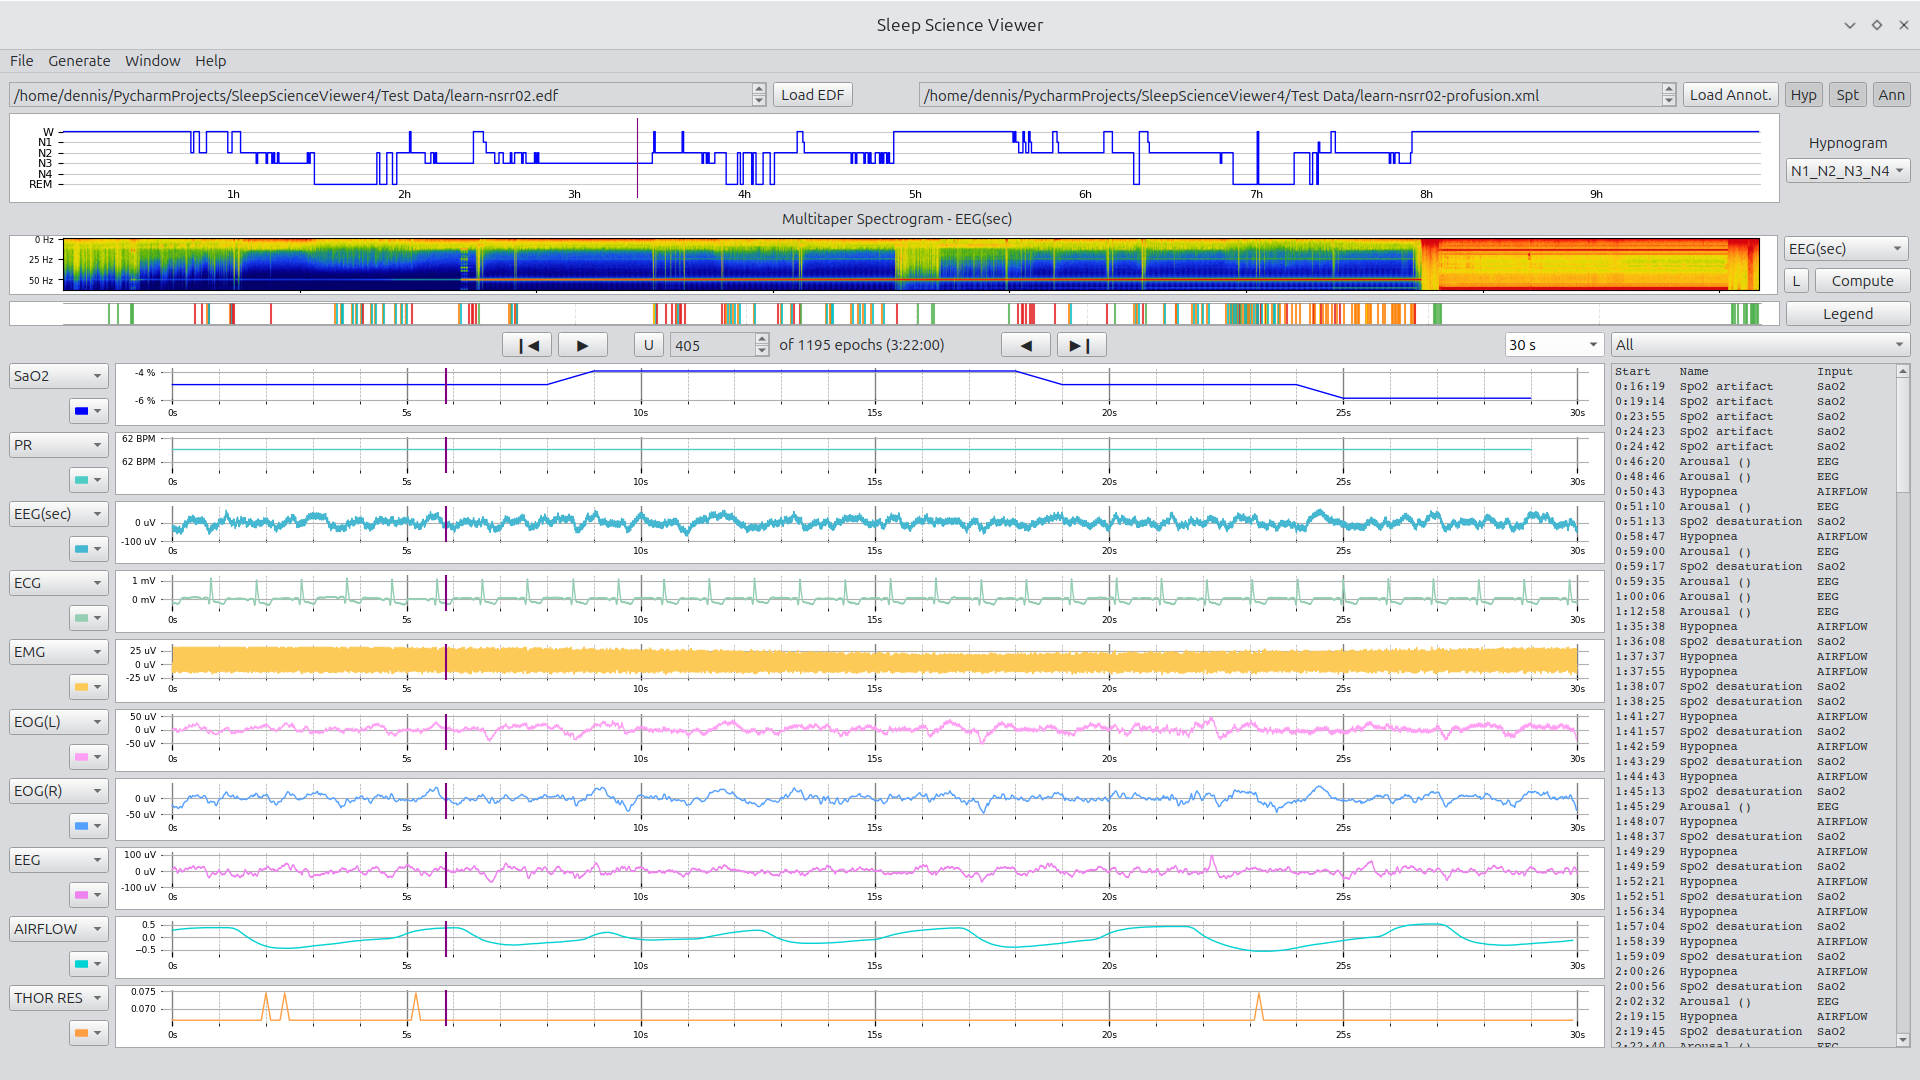
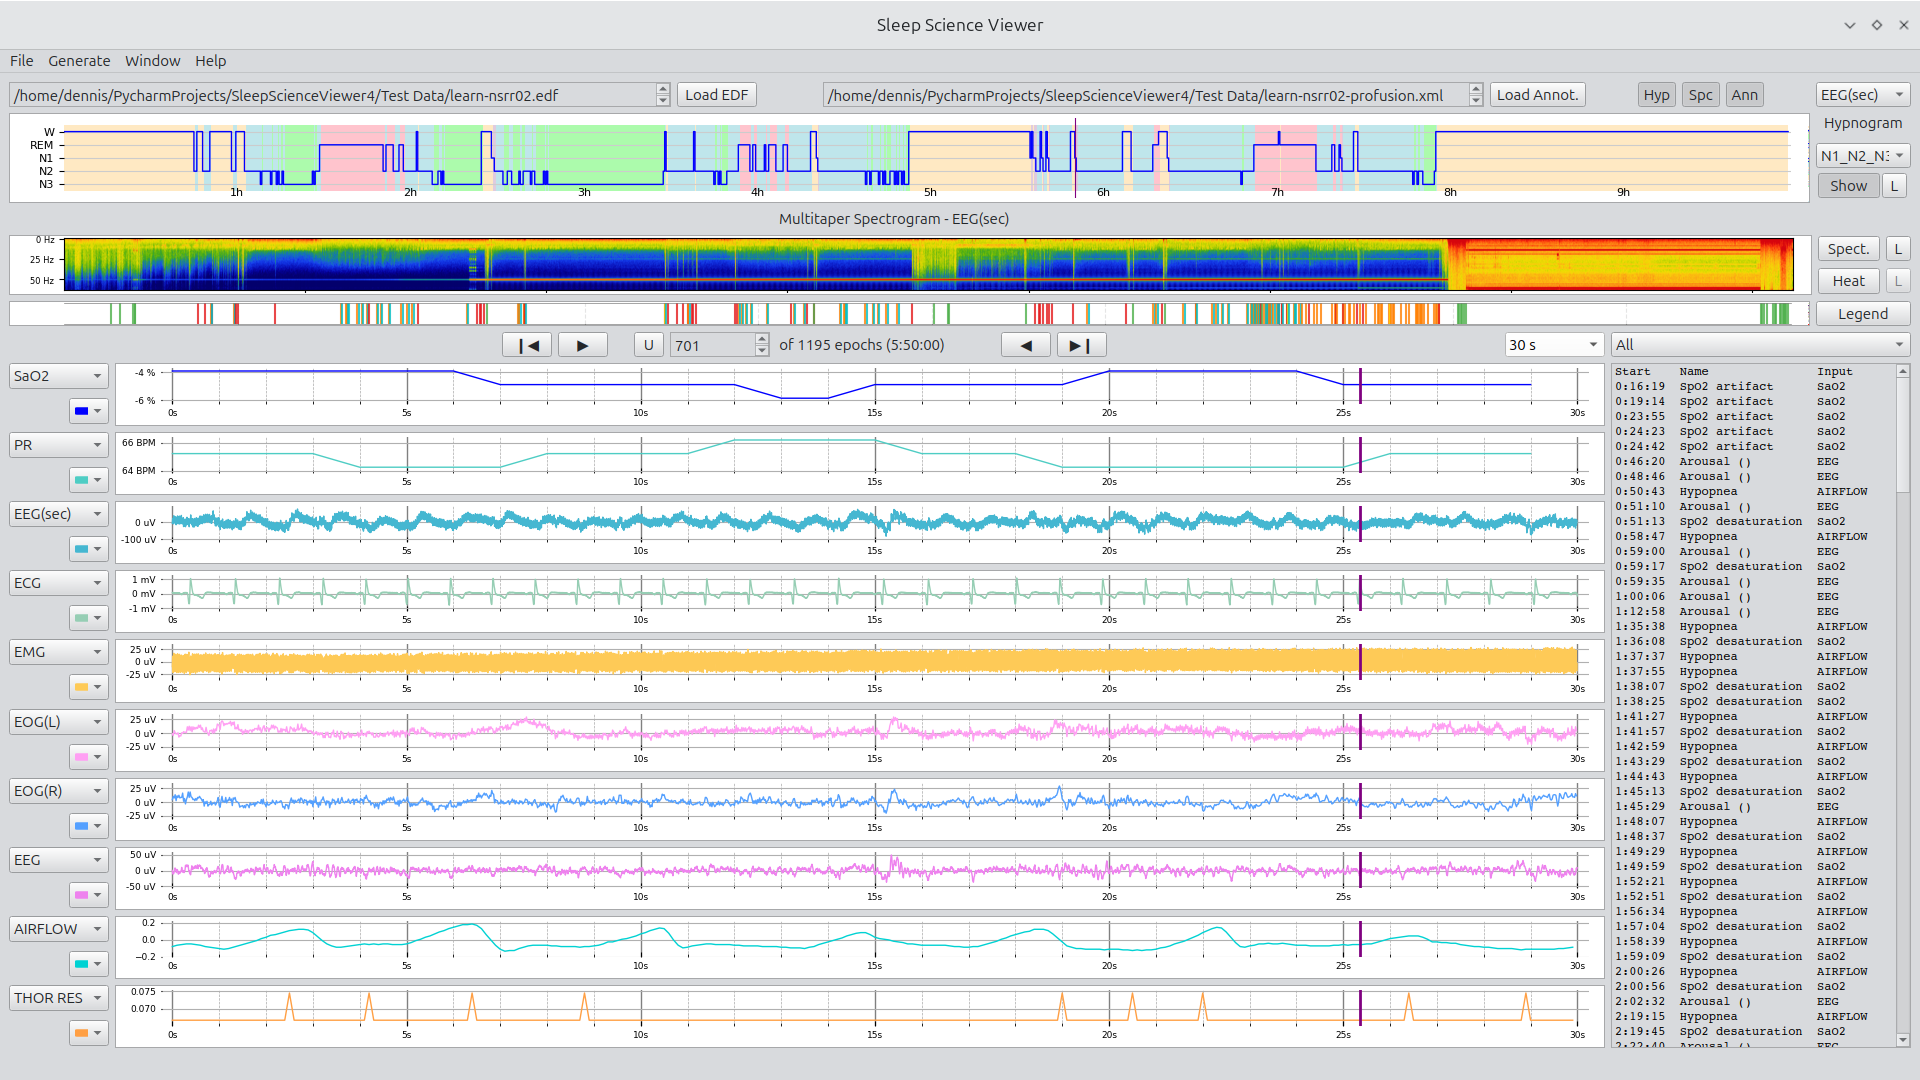
Updated existing figures and added new signal only figures in README.md

diff --git a/README.md b/README.md
@@ -36,6 +36,8 @@ SleepScienceViewer uses a class-based architecture to [represent EDF](Media/Docs
   - Double click on hypnogram, spectrogram, or annotation plots to move signals to selected time
   - Double clik on annotation list show annotation start
 
+![Signal Viewer Interface](Media/signal_viewer_beta.png)
+
 - **Signal Viewer**
   - Signals
     - View a signal one page at a time with the ability to visually identify disruption and noise
@@ -50,7 +52,7 @@ SleepScienceViewer uses a class-based architecture to [represent EDF](Media/Docs
     - Displaying annotations on signal
     - Support for marking epochs underway. 
     
-![Signal Viewer Interface](Media/signal_viewer_beta.png)
+|<img src="Media/SleepScienceViewer_signals_only.png" width="300" />|<img src="Media/signal_viewer_beta_signals_only.png" width="300" />|
 
 ## Work Around
 Double-clicking on the hypnogram, spectrogram, and annotation plot is designed to to move the epoch marker to the
